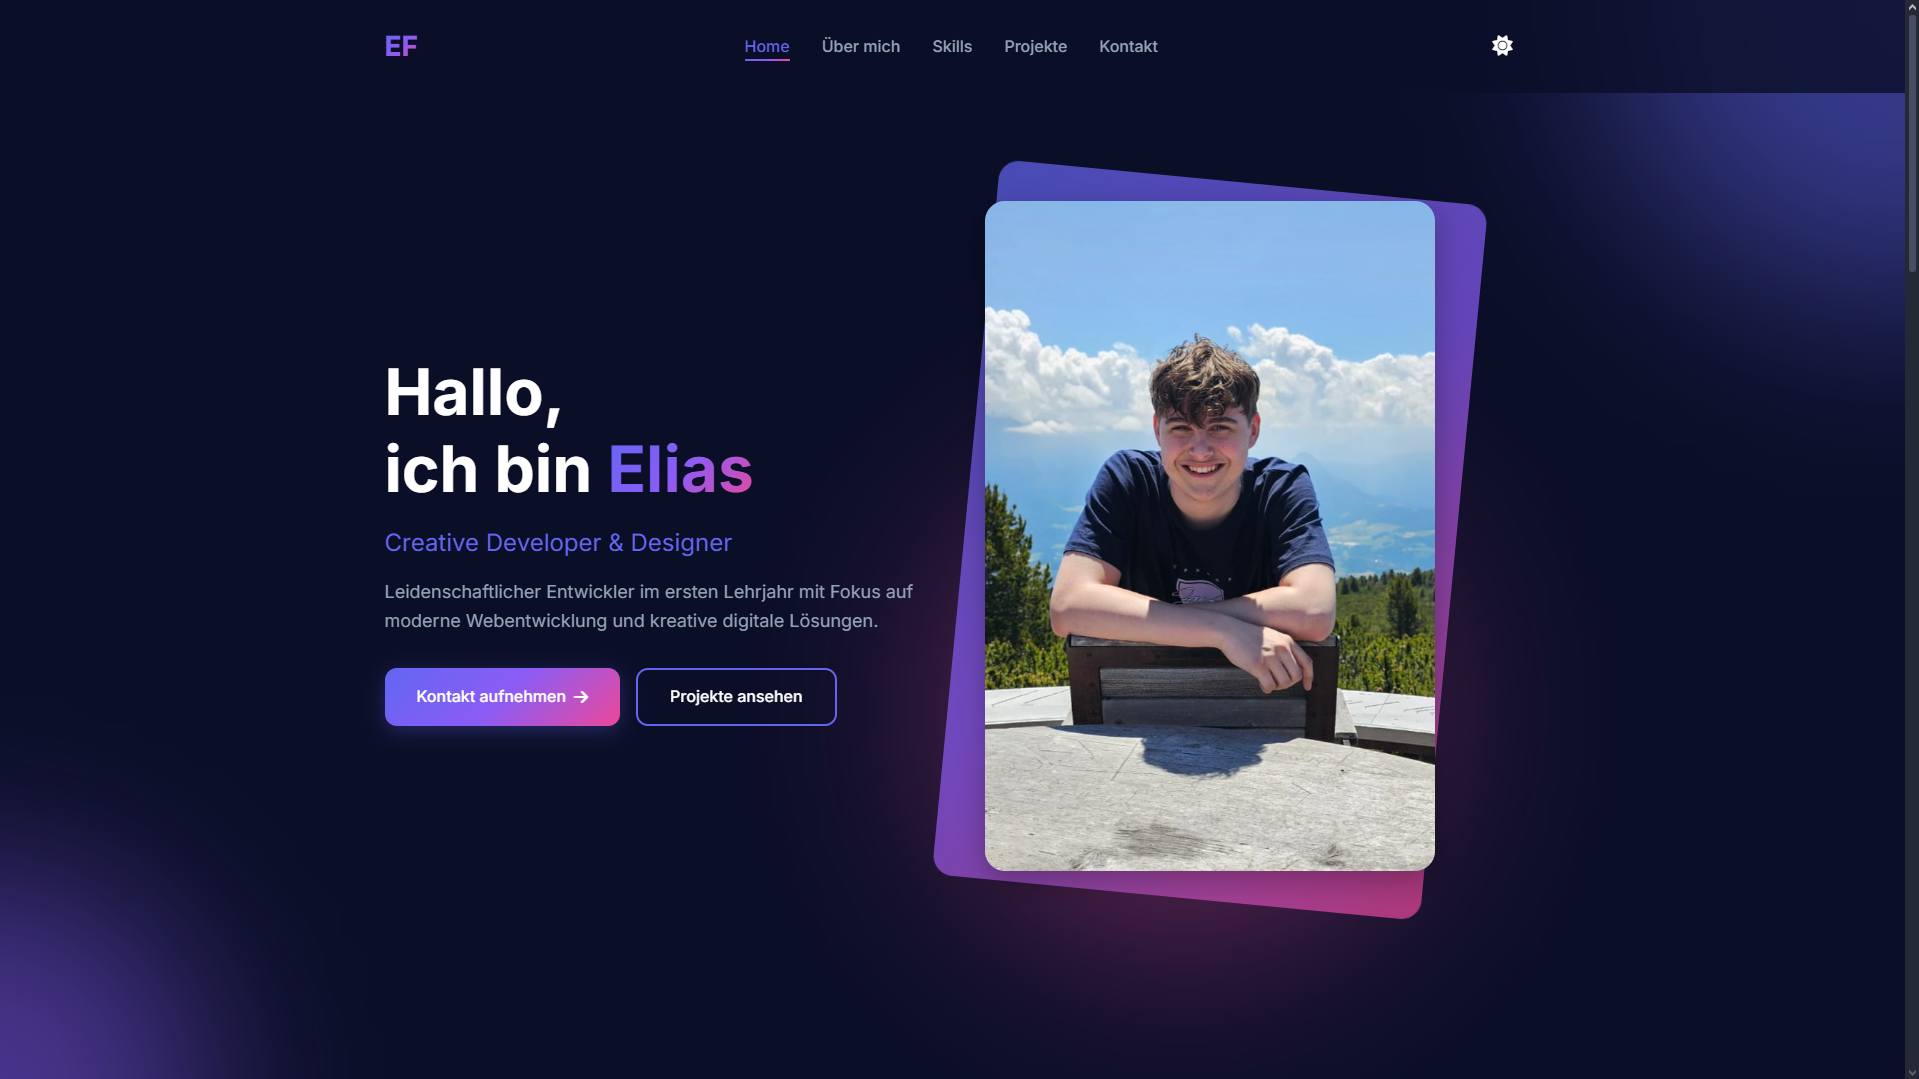
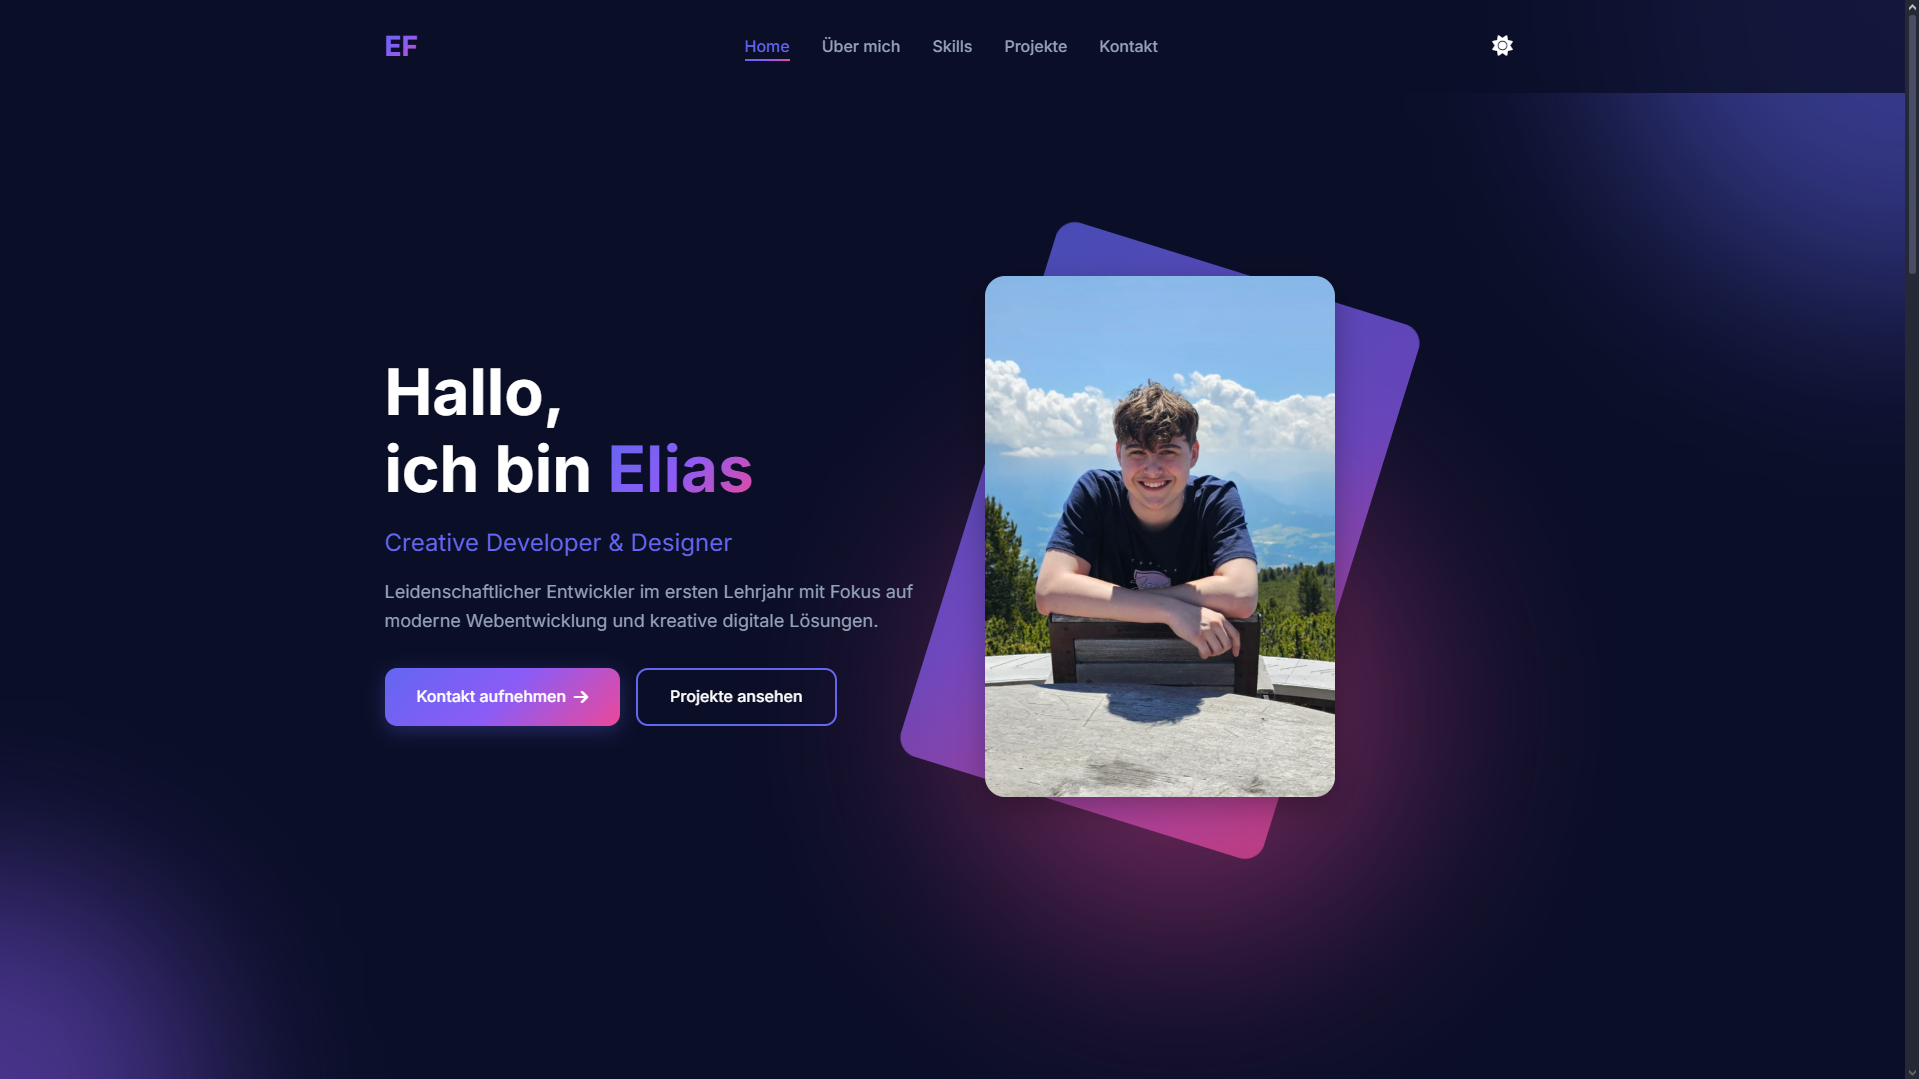
fix

Changed region(s): [[0.4612, 0.1529, 0.7994, 0.8563]]

diff --git a/src/css/styles.css b/src/css/styles.css
@@ -599,7 +599,7 @@ nav.scrolled {
 
 .profile-img {
     width: 100%;
-    max-width: 450px;
+    max-width: 350px;
     height: auto;
     border-radius: var(--radius-lg);
     box-shadow: var(--shadow);
@@ -609,7 +609,7 @@ nav.scrolled {
 
 .image-decoration {
     position: absolute;
-    inset: -20px;
+    inset: -15px;
     background: var(--accent-gradient);
     border-radius: var(--radius-lg);
     opacity: 0.7;
